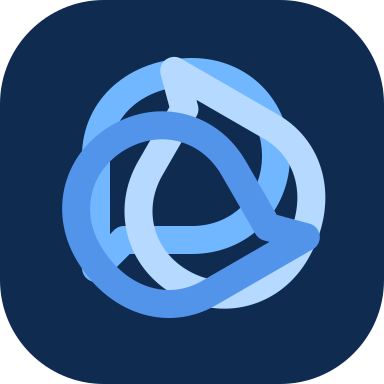
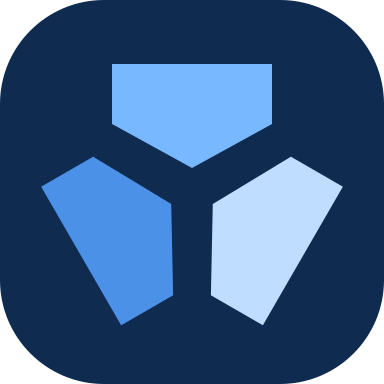
Simplify brand mark into three distinct dialogue facets

Changed region(s): [[0.1875, 0.125, 0.9062, 0.8438], [0.0938, 0.4375, 0.25, 0.75], [0.25, 0.75, 0.2812, 0.7812]]

diff --git a/docs/CURRENT_STATE.md b/docs/CURRENT_STATE.md
@@ -4,11 +4,13 @@ Updated: 9 October 2026 (form controls and draft model catalog)
 
 ## New brand mark — locally verified, LAN deployment pending
 
-The former D-dot mark is replaced by three blue interlocking conversation loops in
+The brand mark now uses three separate blue geometric dialogue facets around an
+open center. It is shared by
 entry, account bar, workspace sidebar and help; SVG metadata and the ICO fallback
 match. Web strict types and zero-warning lint pass. Eight browser checks cover entry
 and help in both palettes at 320/1440px: images load, square dimensions are retained
-and pages have no horizontal overflow. Desktop entry screenshots were inspected.
+and pages have no horizontal overflow. The revised emblem and desktop entry/help
+screenshots were inspected; its three parts remain separate at small sizes.
 The local account backend was unavailable during this visual check; authenticated
 workspace behavior and the existing LAN installation were not verified or redeployed.
 

diff --git a/docs/PRODUCT.md b/docs/PRODUCT.md
@@ -1,6 +1,7 @@
 # Product
 
-The blue/navy brand mark uses three equally sized interlocking conversation loops.
+The blue/navy brand mark uses three separate, equally sized geometric dialogue
+facets pointing toward an open center. Each retains its own direction and color.
 Entry, account bar, workspace navigation and public help share the same scalable
 asset; the browser tab uses the matching favicon. The emblem conveys multiple
 perspectives without assigning an authoritative member.

diff --git a/docs/TASKS.md b/docs/TASKS.md
@@ -1,6 +1,6 @@
 # Tasks
 
-- [x] New shared blue conversation-loop logo and matching browser icons; local web
+- [x] Revised shared geometric dialogue-facet logo and matching browser icons; local web
   types/lint and eight entry/help theme/viewport checks pass.
 - [ ] Deploy the new logo to the existing LAN installation and verify authenticated
   account/workspace branding there. Current deployed image remains unchanged.
